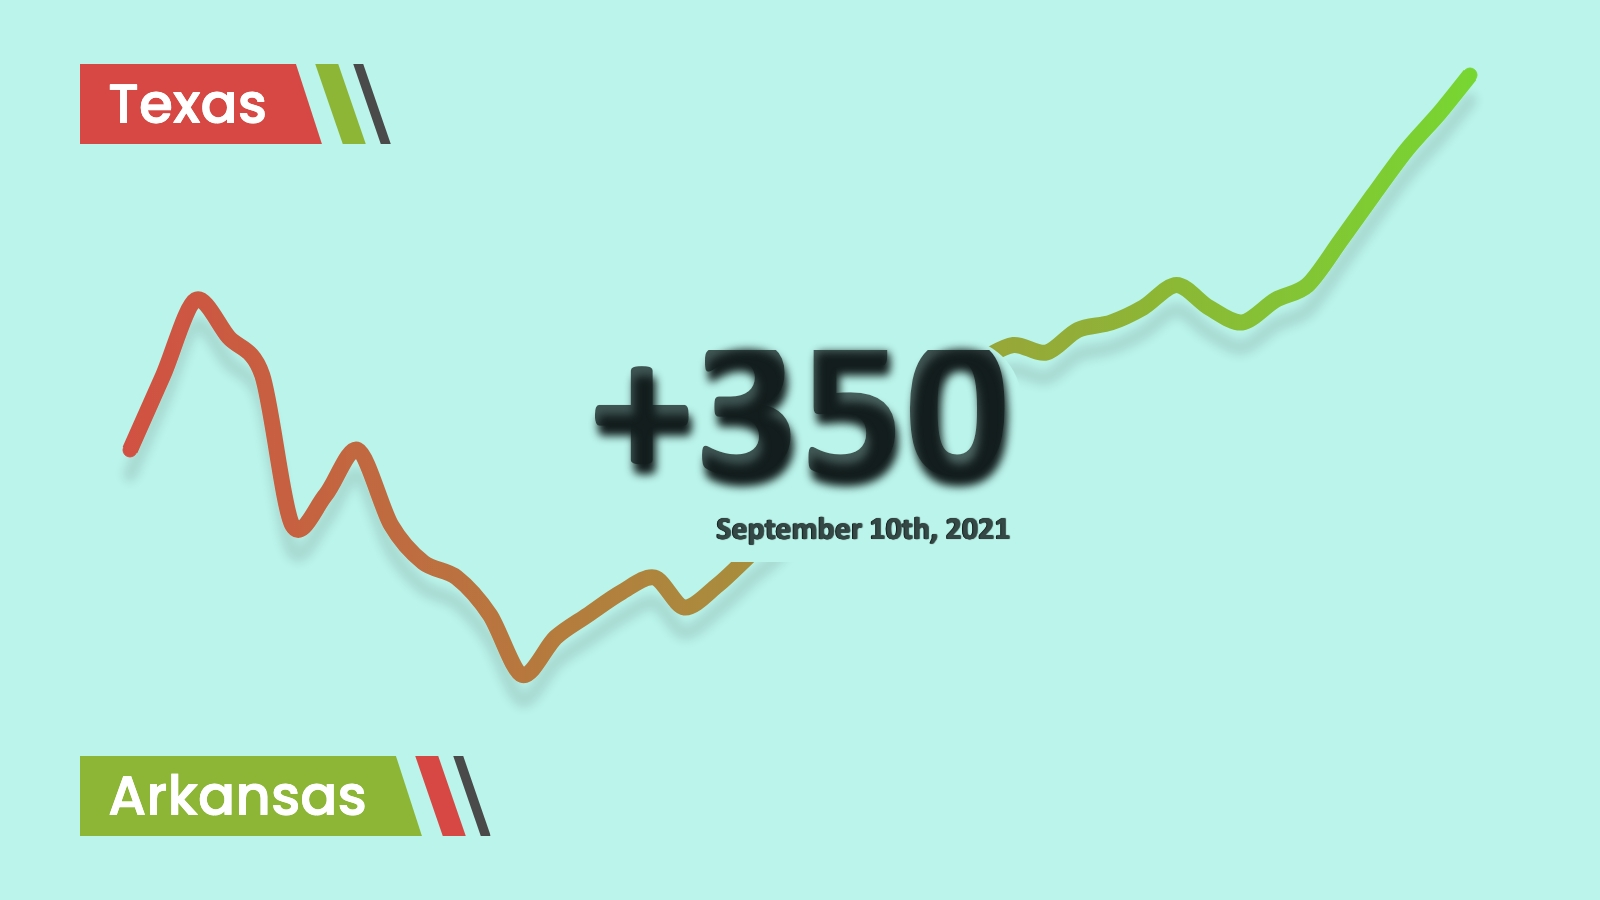
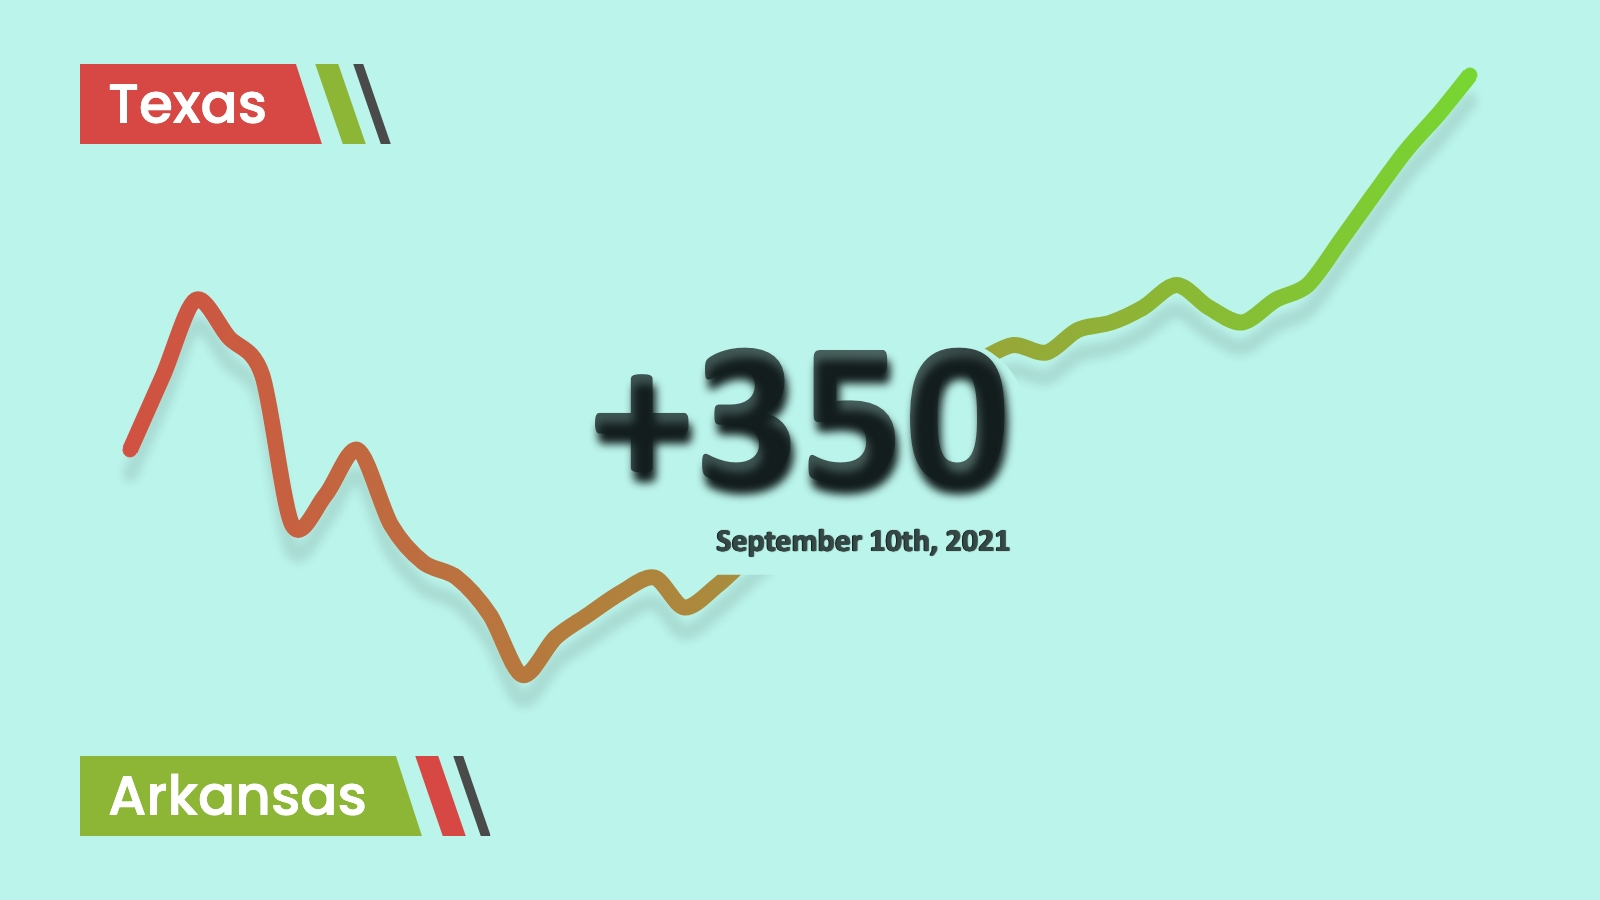
fixed graph padding

Changed region(s): [[0.375, 0.3733, 0.6562, 0.6533]]

diff --git a/style.css b/style.css
@@ -141,8 +141,8 @@ body {
 	display: flex;
 	align-items: center;
 	background: #bbf4eb;
-    border-radius: 2rem;
-    padding:0.730rem  ;
+  border-radius: 30%;
+  padding: 0.830rem;
 	
 
 	
